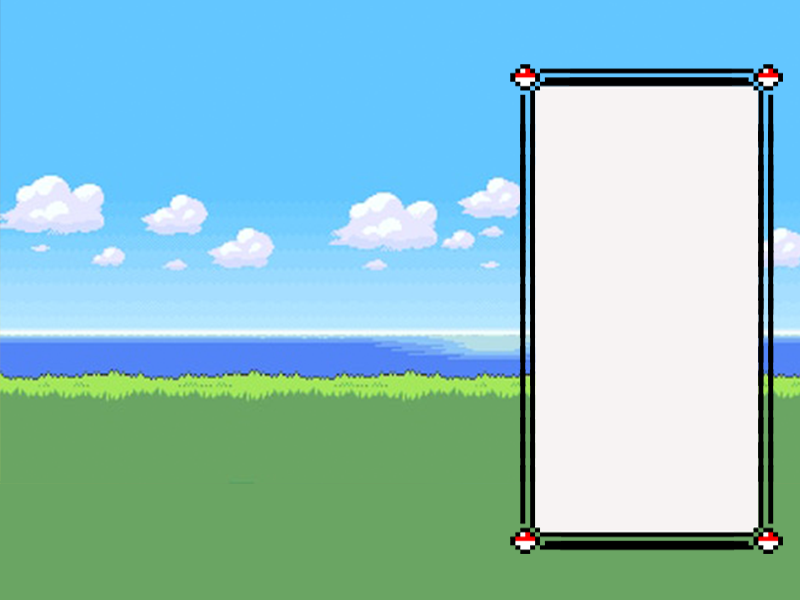
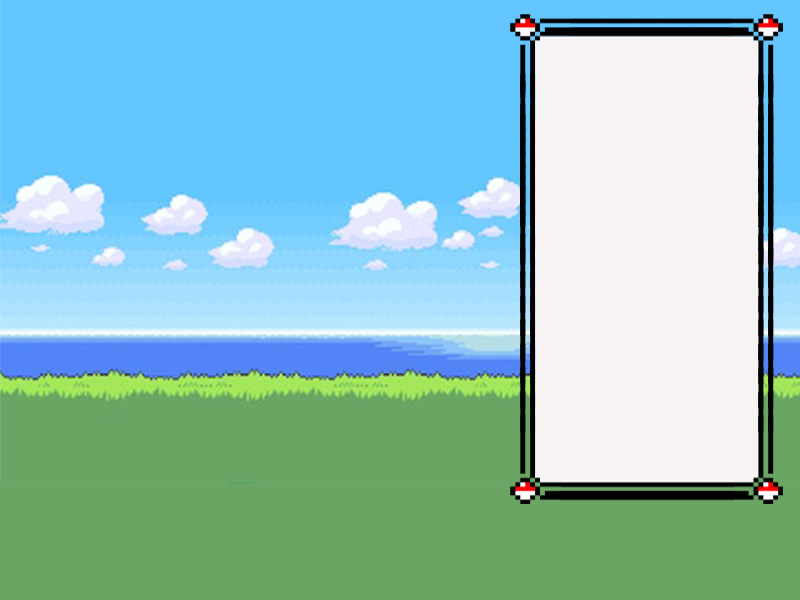
button functionning without click button pokedex problems

diff --git a/graphics/graphics_classes/Button.py b/graphics/graphics_classes/Button.py
@@ -83,41 +83,16 @@ back_button = Button(720, 560, "BACK", font_ingame, 1, (0, 0, 0), (0, 255, 0))
 
 
 #button to choose the number of pokemon in the team
+button_survival = Button(572, 60, 'Survival', font_long, 1, (0, 0, 0), (255, 0, 0))
 button_one = Button(587, 115, '1 vs 1', font_long, 1, (0, 0, 0), (255, 0, 0))
-button_two = Button (587, 175, '2 vs 2', font_long, 1, (0, 0, 0), (255, 0, 0))
-button_three = Button(587, 235, '3 vs 3', font_long, 1, (0, 0, 0), (255, 0, 0))
-button_four = Button(587, 295, '4 vs 4', font_long, 1, (0, 0, 0), (255, 0, 0))
-button_five = Button(587, 355, '5 vs 5', font_long, 1, (0, 0, 0), (255, 0, 0))
-button_six = Button(587, 415, '6 vs 6', font_long, 1, (0, 0, 0), (255, 0, 0))
-button_pokedex = Button(575, 475, 'POKEDEX', font_long, 1, (0, 0, 0), (255, 0, 0))
+button_two = Button (587, 170, '2 vs 2', font_long, 1, (0, 0, 0), (255, 0, 0))
+button_three = Button(587, 225, '3 vs 3', font_long, 1, (0, 0, 0), (255, 0, 0))
+button_four = Button(587, 280, '4 vs 4', font_long, 1, (0, 0, 0), (255, 0, 0))
+button_five = Button(587, 335, '5 vs 5', font_long, 1, (0, 0, 0), (255, 0, 0))
+button_six = Button(587, 390, '6 vs 6', font_long, 1, (0, 0, 0), (255, 0, 0))
+button_pokedex = Button(575, 450, 'POKEDEX', font_long, 1, (0, 0, 0), (255, 0, 0))
 
 
 
 
-#create button instances
-new_game_button = Button(200, 250, "NEW-GAME", font_button_menu, 1, (255, 0, 0), (0, 255, 0))
-continue_button = Button(200, 350, "CONTINUE", font_button_menu, 1, (255, 0, 0), (0, 255, 0))
-option_button = Button(200, 450, "OPTION", font_button_menu, 1, (255, 0, 0), (0, 255, 0))
-attack_button = Button(150, 450, "FIGHT", font_ingame, 1, (0, 0, 0), (50, 50, 50))
-object_button = Button(450, 450, "OBJECT", font_ingame, 1, (0, 0, 0), (50, 50, 50))
-flee_button = Button(150, 510, "RUN", font_ingame, 1, (0, 0, 0), (50, 50, 50))
-change_poke_button = Button(450, 510, "CHANGE POKEMON", font_ingame, 1, (0, 0, 0), (50, 50, 50))
-suite_button = Button(680, 485, 'X', font_button_menu, 1, (0, 0, 0), (50, 50, 50))
-valider_button = Button(680, 485, 'X', font_button_menu, 1, (0, 0, 0), (50, 50, 50))
-valider_new_game_button = Button(680, 455, 'X', font_button_menu, 1, (0, 0, 0), (50, 50, 50))
-choice_pokemon_1_button = Button(20, 300, "Type Eau", font_ingame, 1, (0, 0, 0), (50, 50, 50))
-choice_pokemon_2_button = Button(300, 300, "Type Feu", font_ingame, 1, (0, 0, 0), (50, 50, 50))
-choice_pokemon_3_button = Button(580, 300, "Type Plante", font_ingame, 1, (0, 0, 0), (50, 50, 50))
-back_button = Button(720, 560, "BACK", font_ingame, 1, (0, 0, 0), (0, 255, 0))
-# quit_button = Button.Button(200, 100, "Cliquez-moi", None, 2, (255, 0, 0), (0, 255, 0))
 
-
-#button to choose the number of pokemon in the team
-button_survival = Button(572, 110, 'Survival', font_long, 1, (0, 0, 0), (255, 0, 0))
-button_one = Button(587, 165, '1 vs 1', font_long, 1, (0, 0, 0), (255, 0, 0))
-button_two = Button (587, 220, '2 vs 2', font_long, 1, (0, 0, 0), (255, 0, 0))
-button_three = Button(587, 275, '3 vs 3', font_long, 1, (0, 0, 0), (255, 0, 0))
-button_four = Button(587, 330, '4 vs 4', font_long, 1, (0, 0, 0), (255, 0, 0))
-button_five = Button(587, 385, '5 vs 5', font_long, 1, (0, 0, 0), (255, 0, 0))
-button_six = Button(587, 440, '6 vs 6', font_long, 1, (0, 0, 0), (255, 0, 0))
-button_pokedex = Button(575, 495, 'POKEDEX', font_long, 1, (0, 0, 0), (255, 0, 0))
